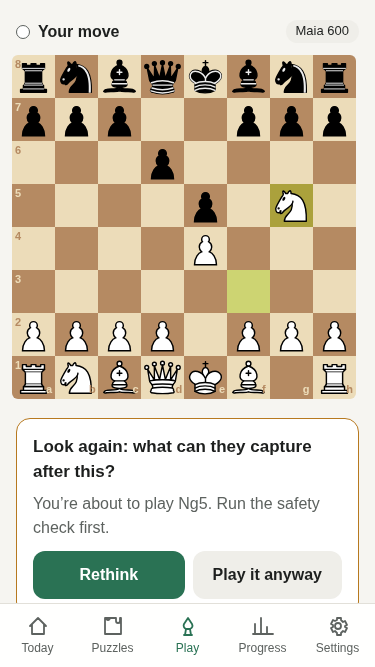
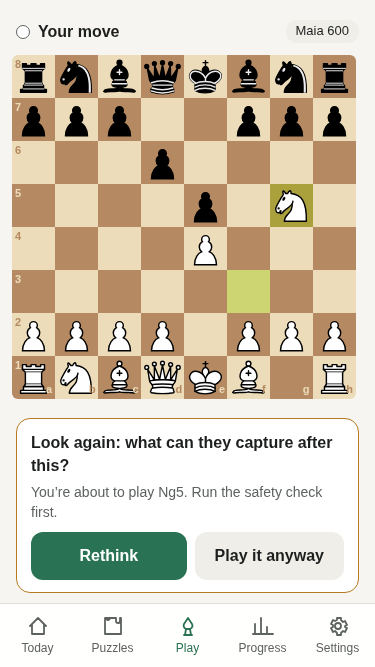
style: compact blunder alarm so it fits small phones
Claude-Session: https://claude.ai/code/session_01JhwcBtAAL32kTYTrVjxgXq

diff --git a/src/ui/theme.css b/src/ui/theme.css
@@ -230,6 +230,6 @@ p { margin: 0 0 12px; }
 .input:focus { outline: 2px solid var(--accent); outline-offset: 0; }
 label.btn { cursor: pointer; }
 
-.alarm { margin: 0; border-color: var(--warn); }
-.alarm h2 { font-size: 17px; }
-.alarm p { margin-bottom: 12px; }
+.alarm { margin: 0; padding: 12px 14px; border-color: var(--warn); }
+.alarm h2 { font-size: 16px; margin-bottom: 4px; }
+.alarm p { margin-bottom: 10px; font-size: 14px; }
